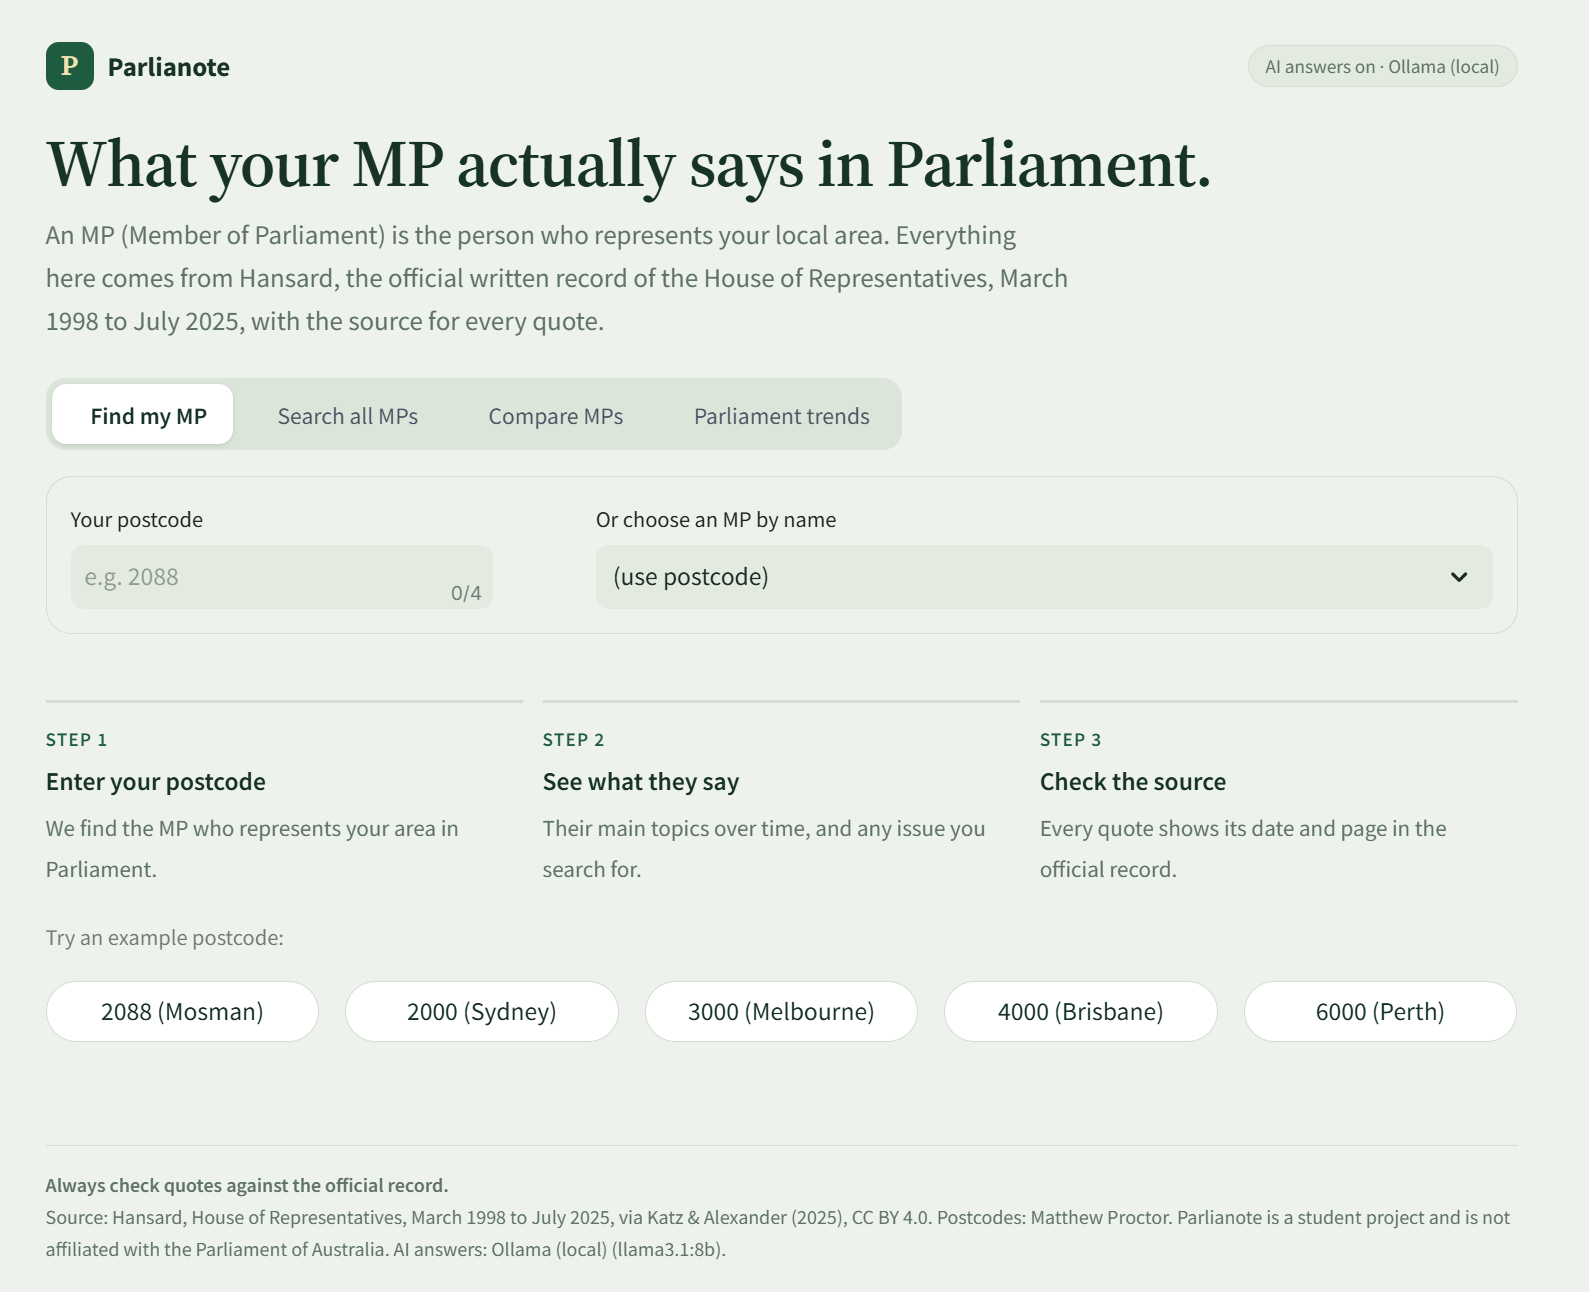
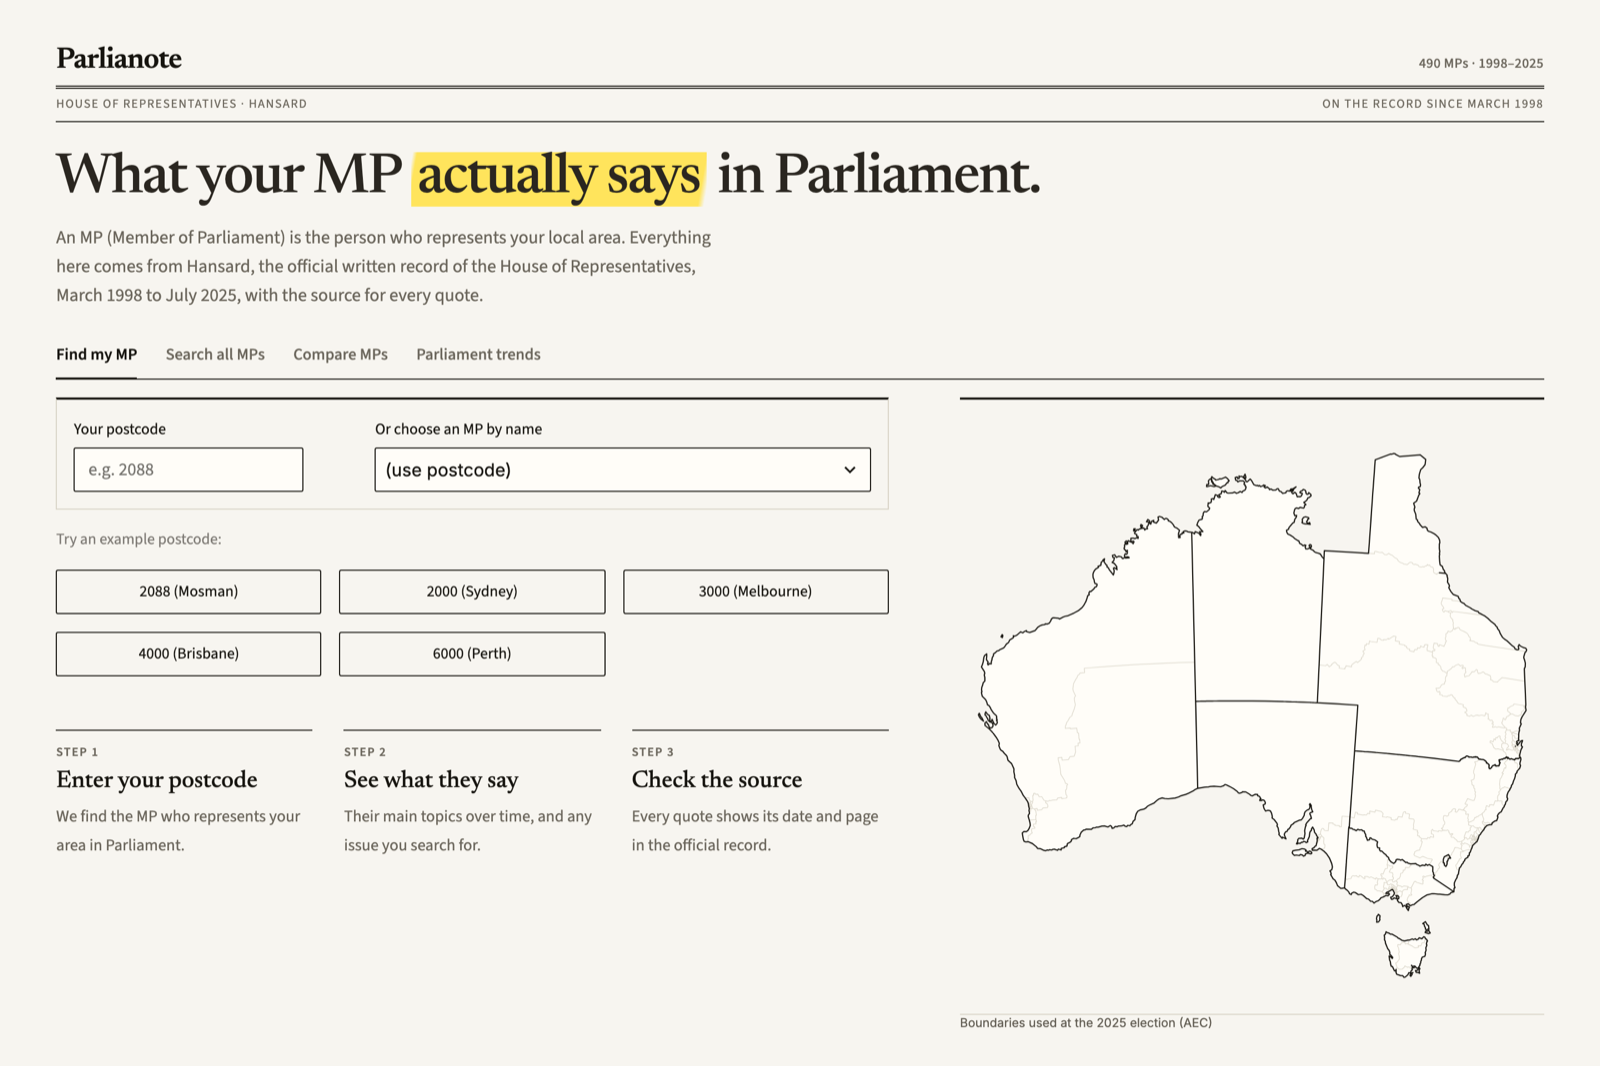
README: show the new design and list each MP view
Replace the old home-screen screenshot with the current design and add
one of an MP's page (photo, seat map, the record at a glance). Split
"What you can do" into the four screens and the views for each MP,
and mention the photos, Compare MPs' shared map and the new focus
chart. List quotes.py and showcase.sh in the project layout, and say
that the current interface was tested with Streamlit 1.65.

diff --git a/README.md b/README.md
@@ -14,23 +14,30 @@ Repository: <https://github.com/krishnakumar-devx/parlianote>
 
 | Screen | What it does |
 |---|---|
-| **Find my MP** | Postcode (or MP name) to the MP, with a map where their state lifts off the page and then their seat rises out of it (choose another MP and the map travels there, tracing the route); then six views: At a glance, Overview, Ask the record, Question Time, Promises, About and limits |
+| **Find my MP** | Postcode (or MP name) to the MP, with their official photo and a map where their state lifts off the page and then their seat rises out of it (choose another MP and the map travels there, tracing the route). Six views follow, listed below. Before anyone is chosen, **On this day** shows a sentence spoken on today's date in an earlier year (or the nearest sitting day), picked to make sense on its own and to avoid party politics |
 | **Search all MPs** | Type a topic or question; see who spoke about it, three key sentences with their speaker, and the passages behind them |
-| **Compare MPs** | Two MPs side by side: the subjects each talks about, and what each said on the same question |
+| **Compare MPs** | Two MPs side by side: both seats on one map, the subjects each talks about, and what each said on the same question |
 | **Parliament trends** | How the subjects of the whole House changed from 1998 to 2025 (optionally by side of politics), and Question Time directness across ministers with 95% ranges; below it, "Is the model fair?": the two sides compared, agreement with human labellers, accuracy, and what the estimate cannot tell you |
+
+![An MP's page: their photo, the seat map and the record at a glance](results/screens/fig_app_mp.png)
+
+For each MP:
+
+| View | What it shows |
+|---|---|
 | **At a glance** | The first view: the poster's questions answered in plain words (do they answer the question, against the average minister; what have they promised, with the most checkable promise; what do they talk about), each with its evidence one click away |
-| **On this day** | On the empty home screen: a sentence spoken on today's date in an earlier year (or the nearest sitting day), picked to make sense on its own and to avoid party politics |
-| **Overview** | Speeches per year, the subjects an MP talks about, and how that mix changed over time |
+| **Overview** | Speeches per year, the subjects they talk about, and how their focus changed: one row per subject across the years, with the year each one peaked |
 | **Ask the record** | Search one MP's speeches; compare their early and late wording; download the results as CSV |
 | **Question Time** | A rough estimate of how directly ministers answer questions from the other side, with a confidence range; each example exchange shades the answer sentence by sentence, showing where (or whether) it responds to the question |
 | **Promises** | Sentences where a minister says "we will ...", split into specific (a number, date or amount) and general; the most checkable come first, questions and cut-off sentences are left out, and the pledge and its numbers are highlighted |
+| **About and limits** | What the tool is, how it works and what to keep in mind, in plain language |
 | **AI short answer** (optional) | An AI reads only the best passages and writes a short answer that cites them |
 
 If a search finds nothing that clearly matches, the app says so plainly and explains that this does **not** prove nobody spoke about it.
 
 ## Quick start
 
-You need Python 3.10 or newer (developed on 3.13, also tested on 3.11). `requirements.txt` gives version ranges that are known to work together; the interface was tested with Streamlit 1.35 and 1.65.
+You need Python 3.10 or newer (developed on 3.13, also tested on 3.11 and 3.12). `requirements.txt` gives version ranges that are known to work together; the current interface was tested with Streamlit 1.65.
 
 ```bash
 pip install -r requirements.txt
@@ -86,6 +93,7 @@ Hansard 1998-2025 (648k rows)
    +-- topics over time                     LDA topic model, 10 subjects
    +-- search (one MP or everyone)          keyword match (BM25 / TF-IDF) -> cross-encoder re-reads the best -> verbatim sentences
    +-- Question Time (2011-2025)            pair each question with its answer -> directness score; pledge finder
+   +-- seat map and photos                  AEC 2025 boundaries (simplified); official portraits loaded from aph.gov.au
                           |
                     Streamlit web app  (+ optional AI answer from the retrieved passages only)
 ```
@@ -110,6 +118,7 @@ src/ui/                 the web app's building blocks
                           next (old seat sinks, camera flies, pulling back on long trips, new seat rises); plays the idle tour
     seat_map/seat_map.json  the electorate shapes the map loads (built by scripts/build_seat_map.py)
     aph_ids.json          each MP's ID on the Parliament's website, for their official photo (built by scripts/build_photo_ids.py)
+    quotes.py             picks sentences that stand alone on a public screen (the idle tour, "On this day")
     components.py         cards, buttons, quote boxes, AI answer box
     views.py              one function per screen
 src/                    the analysis pipeline (pairing, features, models, evaluation, retrieval, AI answer)
@@ -123,6 +132,7 @@ team_labelling/         the 45-question sheet teammates labelled independently (
 scripts/download_data.py   fetches the public datasets
 scripts/build_seat_map.py  rebuilds the seat map's shapes from the AEC boundaries
 scripts/build_photo_ids.py rebuilds the list of Parliament IDs behind the MP photos
+scripts/showcase.sh        runs the app for a booth screen (see Showcase mode)
 ```
 
 ## Rebuilding the data
